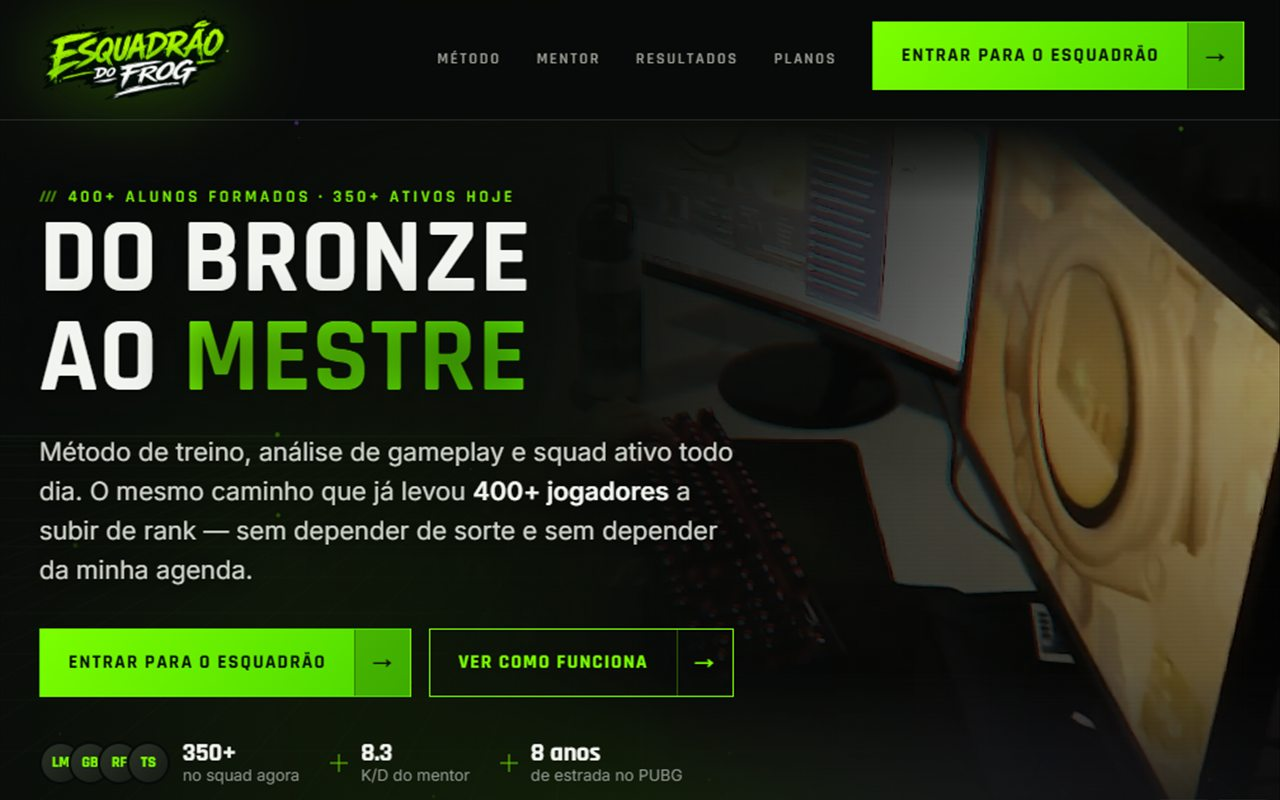
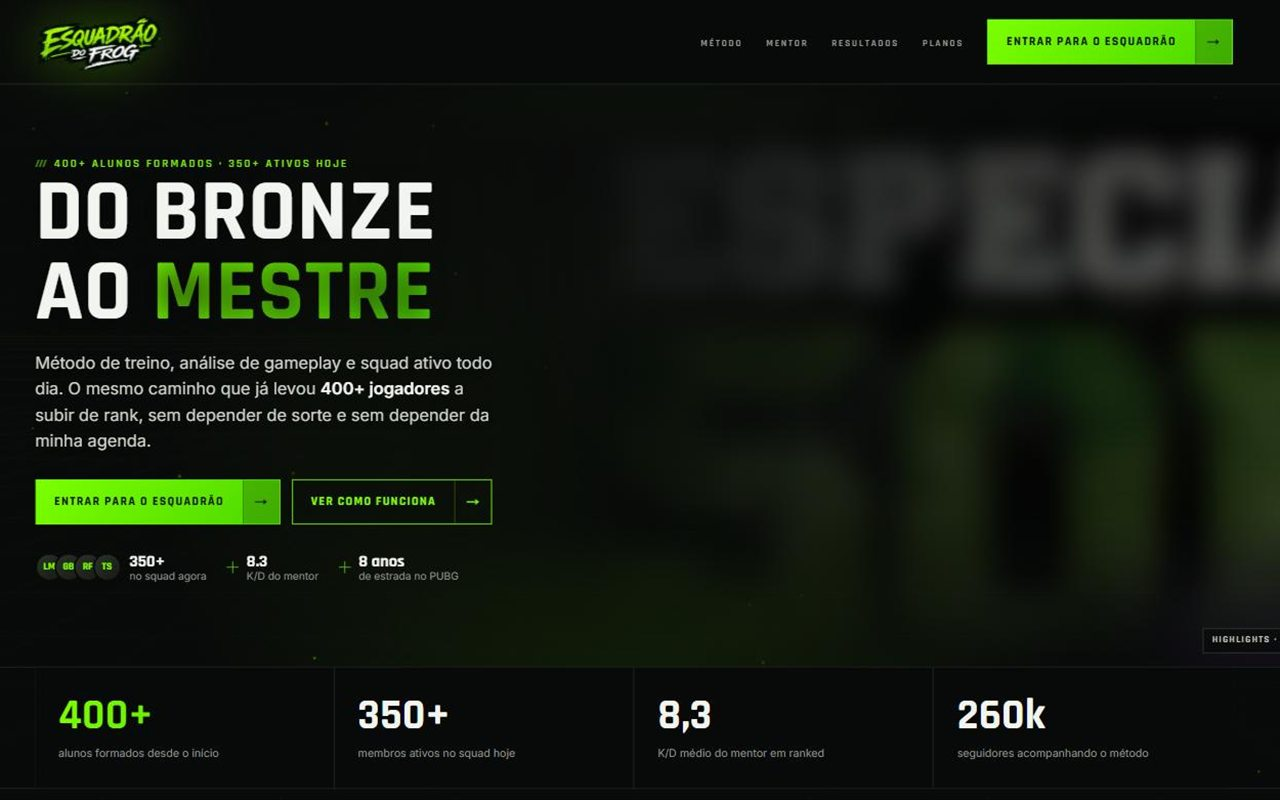
Refresh diagnóstico screenshots and copy for today's frog/site changes
Recaptured hero/resultados/preços "depois" screenshots from the live
site, they were stale (still showed the old hexagon rank badges, the
old testimonial placeholder, and the narrower gutter). Resultados now
shows the real gameplay highlights carousel.

Updated finding 07's fix/impact text: the carousel's media is real now
(client-provided gameplay highlights), only name/rank/depoimento per
case is still placeholder, so the finding is more precise about what's
actually left.

Also sweeped remaining em dashes in diagnóstico and proposta content
into commas, matching the frog/site pass from earlier, so the two
client-facing docs read consistently. Comments and the one em-dash used
as a "no value" placeholder character in cost-calculator.tsx were left
alone.

diff --git a/src/lib/diagnostico-frog/content.ts b/src/lib/diagnostico-frog/content.ts
@@ -26,7 +26,7 @@ export const CHANNELS = [
     name: "Instagram",
     handle: "@frogman1_",
     stat: "103 mil seguidores",
-    note: "Bio já usa a mesma copy de dor do site. O número diverge do site (400+ lá, 350+ aqui) — não é erro: 400+ já passaram pelo método, ~350 seguem ativos hoje. Os dois números aparecem agora, rotulados.",
+    note: "Bio já usa a mesma copy de dor do site. O número diverge do site (400+ lá, 350+ aqui), não é erro: 400+ já passaram pelo método, ~350 seguem ativos hoje. Os dois números aparecem agora, rotulados.",
   },
 ] as const;
 
@@ -48,7 +48,7 @@ export const FINDINGS: Finding[] = [
     n: "01",
     category: "visual",
     title: "Contraste quebrado no headline principal",
-    before: "“Do bronze ao mestre” em gradiente marrom/dourado sobre fundo escuro — quase ilegível no primeiro impacto, o pior lugar pra perder legibilidade.",
+    before: "“Do bronze ao mestre” em gradiente marrom/dourado sobre fundo escuro, quase ilegível no primeiro impacto, o pior lugar pra perder legibilidade.",
     status: "resolvido",
     fix: "Headline em branco sólido, com “mestre” destacado no verde da marca. Legível em qualquer luminosidade de tela.",
     impact: "A primeira coisa que o olho encontra agora é a promessa da página, não uma textura.",
@@ -57,10 +57,10 @@ export const FINDINGS: Finding[] = [
     n: "02",
     category: "visual",
     title: "Paleta genérica de comunidade gamer",
-    before: "Verde neon sobre roxo é o padrão visual de comunidade gamer desde ~2018 — sem um segundo elemento que diferencie a marca do restante do nicho.",
+    before: "Verde neon sobre roxo é o padrão visual de comunidade gamer desde ~2018, sem um segundo elemento que diferencie a marca do restante do nicho.",
     status: "parcial",
     fix: "Paleta mantida por equity de marca (é o que seus 158 mil inscritos no YouTube já reconhecem), mas reorganizada com grid consistente, cartões e hierarquia tipográfica própria.",
-    impact: "Resolve a confusão visual sem jogar fora o reconhecimento que a marca já constrói fora do site. Um segundo elemento diferenciador segue em aberto — ver próximos passos.",
+    impact: "Resolve a confusão visual sem jogar fora o reconhecimento que a marca já constrói fora do site. Um segundo elemento diferenciador segue em aberto, ver próximos passos.",
   },
   {
     n: "03",
@@ -69,24 +69,24 @@ export const FINDINGS: Finding[] = [
     before: "Fonte grunge nos headlines, fonte pixel/mono nos botões, sem hierarquia tipográfica clara guiando o que é título e o que é ação.",
     status: "resolvido",
     fix: "Uma família de display única em todos os títulos, com pesos e tamanhos definindo uma hierarquia clara entre título, rótulo e corpo de texto.",
-    impact: "A página para de parecer montada em pedaços — cada bloco de texto agora sabe o que é.",
+    impact: "A página para de parecer montada em pedaços, cada bloco de texto agora sabe o que é.",
   },
   {
     n: "04",
     category: "visual",
-    title: "CTA sem hierarquia — 5 repetições do mesmo verde",
+    title: "CTA sem hierarquia, 5 repetições do mesmo verde",
     before: "O mesmo verde saturado se repete em 5 lugares (3 planos + hero + WhatsApp). Nada se destaca como “a” ação principal.",
     status: "resolvido",
     fix: "Um CTA primário sólido por seção; ações secundárias em contorno, sem competir pela mesma atenção.",
-    impact: "Quem chega sabe, em cada tela, qual é o próximo passo — em vez de cinco convites visuais idênticos.",
+    impact: "Quem chega sabe, em cada tela, qual é o próximo passo, em vez de cinco convites visuais idênticos.",
   },
   {
     n: "05",
     category: "ux",
     title: "Vídeo em autoplay travando a primeira interação",
-    before: "Pill “Ativar o Som” cobre o vídeo de fundo e exige uma decisão antes de deixar continuar — fricção alta pra quem abre em ambiente silencioso ou público.",
+    before: "Pill “Ativar o Som” cobre o vídeo de fundo e exige uma decisão antes de deixar continuar, fricção alta pra quem abre em ambiente silencioso ou público.",
     status: "resolvido",
-    fix: "Vídeo decorativo em loop, mudo por padrão, com um controle discreto de som e tela cheia no canto — sem popup obrigatório.",
+    fix: "Vídeo decorativo em loop, mudo por padrão, com um controle discreto de som e tela cheia no canto, sem popup obrigatório.",
     impact: "Ninguém precisa decidir nada pra continuar lendo. O vídeo apoia a página, não interrompe ela.",
   },
   {
@@ -96,16 +96,16 @@ export const FINDINGS: Finding[] = [
     before: "Depois do preço, só resta comprar ou sair. Sem e-mail, isca de conteúdo ou qualquer caminho pra quem ainda não decidiu.",
     status: "resolvido",
     fix: "Bloco novo de captura, com isca de conteúdo real (“os 3 erros que travam o diamante”) antes do rodapé.",
-    impact: "Quem fecha a aba sem comprar deixa de ser uma visita perdida — vira um contato pra retomar depois.",
+    impact: "Quem fecha a aba sem comprar deixa de ser uma visita perdida, vira um contato pra retomar depois.",
   },
   {
     n: "07",
     category: "estrategia",
     title: "Prova social rasa",
-    before: "Só prints de conversa no WhatsApp e comentários do Instagram — nenhum dado concreto de evolução de aluno, o gatilho mais forte pra esse público.",
+    before: "Só prints de conversa no WhatsApp e comentários do Instagram, nenhum dado concreto de evolução de aluno, o gatilho mais forte pra esse público.",
     status: "parcial",
-    fix: "Estrutura pronta para caso de aluno: progressão de rank antes/depois, métricas (K/D, dano, tempo até o salto) e linha do tempo de como foi na prática, mais espaço para depoimento em vídeo.",
-    impact: "A estrutura já entrega o que mais converte nesse nicho — rank não mente. Os números exibidos hoje são um exemplo de formato, não dados reais: falta você enviar 2 ou 3 casos de aluno pra trocar.",
+    fix: "Estrutura pronta para caso de aluno: progressão de rank antes/depois, métricas (K/D, dano, tempo até o salto), linha do tempo de como foi na prática, e um carrossel de casos com espaço pra foto, depoimento gravado ou highlights de gameplay.",
+    impact: "Os highlights do carrossel já são reais, os que você mandou. Nome, rank e depoimento de cada case ainda são exemplo de formato: falta 2 ou 3 casos de aluno de verdade pra trocar.",
   },
   {
     n: "08",
@@ -147,7 +147,7 @@ export const COMPARISONS: Comparison[] = [
     before: { img: "/diagnostico-frog/hero-antes.jpg", label: "esquadraofrog.com" },
     after: { img: "/diagnostico-frog/hero-depois.jpg", label: "Nova versão" },
     findings: ["01", "03", "04", "05"],
-    body: "A tela que decide se alguém continua lendo ou fecha a aba. Contraste, hierarquia de fonte, CTA e o vídeo de fundo — os quatro problemas mais na cara do site — se concentram aqui.",
+    body: "A tela que decide se alguém continua lendo ou fecha a aba. Contraste, hierarquia de fonte, CTA e o vídeo de fundo, os quatro problemas mais na cara do site, se concentram aqui.",
   },
   {
     id: "resultados",
@@ -157,7 +157,7 @@ export const COMPARISONS: Comparison[] = [
     before: { img: "/diagnostico-frog/resultados-antes.jpg", label: "esquadraofrog.com" },
     after: { img: "/diagnostico-frog/resultados-depois.jpg", label: "Nova versão" },
     findings: ["07"],
-    body: "De print de conversa pra progressão de rank com data e número do lado — o formato que mais converte pra quem joga PUBG competitivo.",
+    body: "De print de conversa pra progressão de rank com data e número do lado, o formato que mais converte pra quem joga PUBG competitivo.",
   },
   {
     id: "precos",
@@ -167,13 +167,13 @@ export const COMPARISONS: Comparison[] = [
     before: { img: "/diagnostico-frog/precos-antes.jpg", label: "esquadraofrog.com" },
     after: { img: "/diagnostico-frog/precos-depois.jpg", label: "Nova versão" },
     findings: ["08"],
-    body: "O selo que recomendava o plano mais caro pra maioria agora recomenda o que o próprio Frog considera o melhor custo-benefício — e a página explica por quê.",
+    body: "O selo que recomendava o plano mais caro pra maioria agora recomenda o que o próprio Frog considera o melhor custo-benefício, e a página explica por quê.",
   },
 ];
 
 export const NEXT_STEPS = [
-  "Manda 2 ou 3 casos de aluno com rank antes/depois — é o que falta pra trocar o exemplo de formato por dados reais na prova social.",
+  "Manda 2 ou 3 casos de aluno com rank antes/depois, é o que falta pra trocar o exemplo de formato por dados reais na prova social.",
   "Confirma se topa manter a paleta verde/roxo (recomendamos).",
-  "Diz pra gente onde o lead capturado deve cair — e-mail, CRM ou até uma planilha — pra ligar o formulário a um destino de verdade.",
+  "Diz pra gente onde o lead capturado deve cair, e-mail, CRM ou até uma planilha, pra ligar o formulário a um destino de verdade.",
   "Confirma as respostas do FAQ sobre cancelamento e prazo de acesso, pra bater com o que já está configurado na Kiwify.",
 ];

diff --git a/src/components/diagnostico-frog/before-after.tsx b/src/components/diagnostico-frog/before-after.tsx
@@ -53,7 +53,7 @@ export function BeforeAfter({
       >
         <Image
           src={after.img}
-          alt={`Depois — ${after.label}`}
+          alt={`Depois, ${after.label}`}
           fill
           sizes="(min-width: 1160px) 1100px, 100vw"
           className="pointer-events-none object-cover"
@@ -61,7 +61,7 @@ export function BeforeAfter({
 
         <Image
           src={before.img}
-          alt={`Antes — ${before.label}`}
+          alt={`Antes, ${before.label}`}
           fill
           sizes="(min-width: 1160px) 1100px, 100vw"
           className="pointer-events-none object-cover"

diff --git a/src/components/proposal-frog/pricing.tsx b/src/components/proposal-frog/pricing.tsx
@@ -19,7 +19,7 @@ export function Pricing() {
       <SectionHead
         num="07"
         title="Investimento"
-        lead="Os dois valores abaixo são condição de primeiro projeto. A tabela riscada é o que a Vetrium pratica normalmente. Escolha a forma de pagamento e o pacote — a escolha segue com você até o fechamento."
+        lead="Os dois valores abaixo são condição de primeiro projeto. A tabela riscada é o que a Vetrium pratica normalmente. Escolha a forma de pagamento e o pacote, a escolha segue com você até o fechamento."
         maxWidth="60ch"
       />
 

diff --git a/src/components/proposal-frog/demo.tsx b/src/components/proposal-frog/demo.tsx
@@ -34,7 +34,7 @@ export function Demo() {
 
       <Reveal delay={0.08}>
         <p className="mt-5 text-[13.5px] text-muted">
-          É comparação real, com prints do site atual lado a lado com o que já construímos —
+          É comparação real, com prints do site atual lado a lado com o que já construímos,
           não é maquete. Falta o seu conteúdo pra trocar os exemplos por dados reais: casos de
           aluno, depoimento e os links de checkout.
         </p>

diff --git a/src/components/proposal-frog/diagnosis.tsx b/src/components/proposal-frog/diagnosis.tsx
@@ -28,7 +28,7 @@ export function Diagnosis() {
 
       <Reveal delay={0.1} className="mt-7">
         <p className="mb-4 text-[15px] leading-relaxed text-ink-dim">
-          Isso é o problema. O que você recebe não é o ajuste desses pontos — é o site
+          Isso é o problema. O que você recebe não é o ajuste desses pontos, é o site
           inteiro reconstruído:
         </p>
         <dl className="grid grid-cols-2 gap-px border border-line bg-line sm:grid-cols-4">

diff --git a/src/components/proposal-frog/timeline.tsx b/src/components/proposal-frog/timeline.tsx
@@ -40,7 +40,7 @@ export function Timeline() {
                 {step.who}
               </span>
               <h3 className="mb-1 text-[17px] font-semibold tracking-tight">
-                {step.n === 4 ? `Entrega — ${plan.name} em ${plan.deadline}` : step.title}
+                {step.n === 4 ? `Entrega, ${plan.name} em ${plan.deadline}` : step.title}
               </h3>
               <p className="text-[14px] text-ink-dim">
                 {step.n === 4

diff --git a/src/components/proposal-frog/cost-calculator.tsx b/src/components/proposal-frog/cost-calculator.tsx
@@ -90,7 +90,7 @@ export function CostCalculator() {
       <Reveal delay={0.14}>
         <p className="mt-5 text-[13.5px] text-muted">
           Os 350 ativos e os 80% no Recruta são números que você mesmo passou. A migração é
-          hipótese sua — arraste o controle para o cenário que parecer realista.
+          hipótese sua, arraste o controle para o cenário que parecer realista.
         </p>
       </Reveal>
     </Section>

diff --git a/src/components/diagnostico-frog/next-steps.tsx b/src/components/diagnostico-frog/next-steps.tsx
@@ -8,7 +8,7 @@ export function NextSteps() {
       <SectionHead
         tag="Com você"
         title="O que falta vir do seu lado"
-        lead="O design tá fechado. O que falta agora é conteúdo real — sem isso a gente não troca os exemplos por dados de verdade."
+        lead="O design tá fechado. O que falta agora é conteúdo real, sem isso a gente não troca os exemplos por dados de verdade."
         strat
       />
 

diff --git a/src/components/diagnostico-frog/brand-substrate.tsx b/src/components/diagnostico-frog/brand-substrate.tsx
@@ -8,7 +8,7 @@ export function BrandSubstrate() {
       <SectionHead
         tag="Fora do site"
         title="O que já funciona"
-        lead="Sua marca já tem peso fora do site. A gente não mexe nisso — só traz esse mesmo padrão pra dentro da página."
+        lead="Sua marca já tem peso fora do site. A gente não mexe nisso, só traz esse mesmo padrão pra dentro da página."
         maxWidth="60ch"
       />
 
